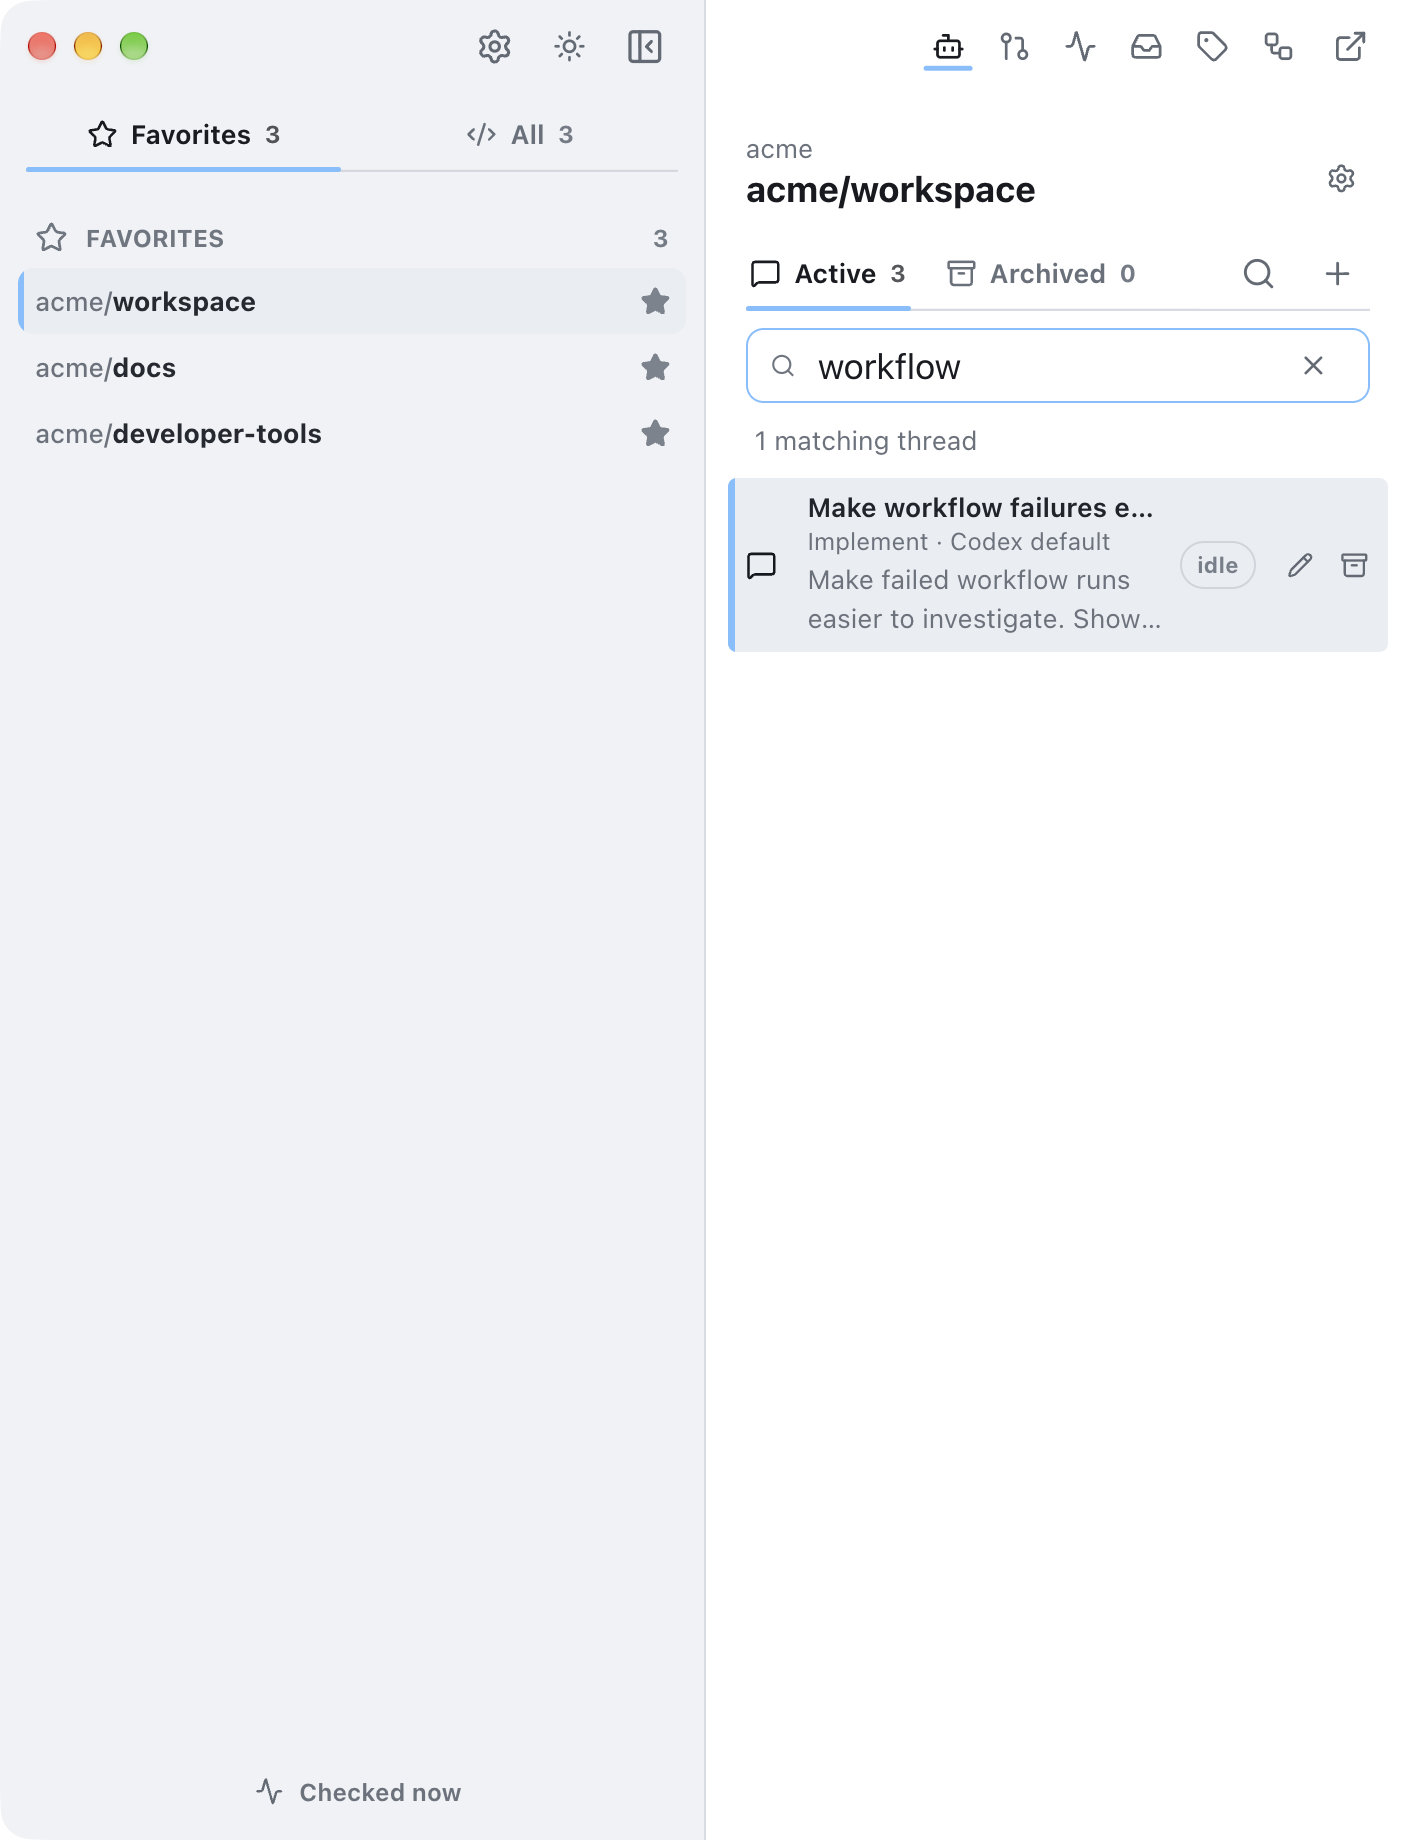
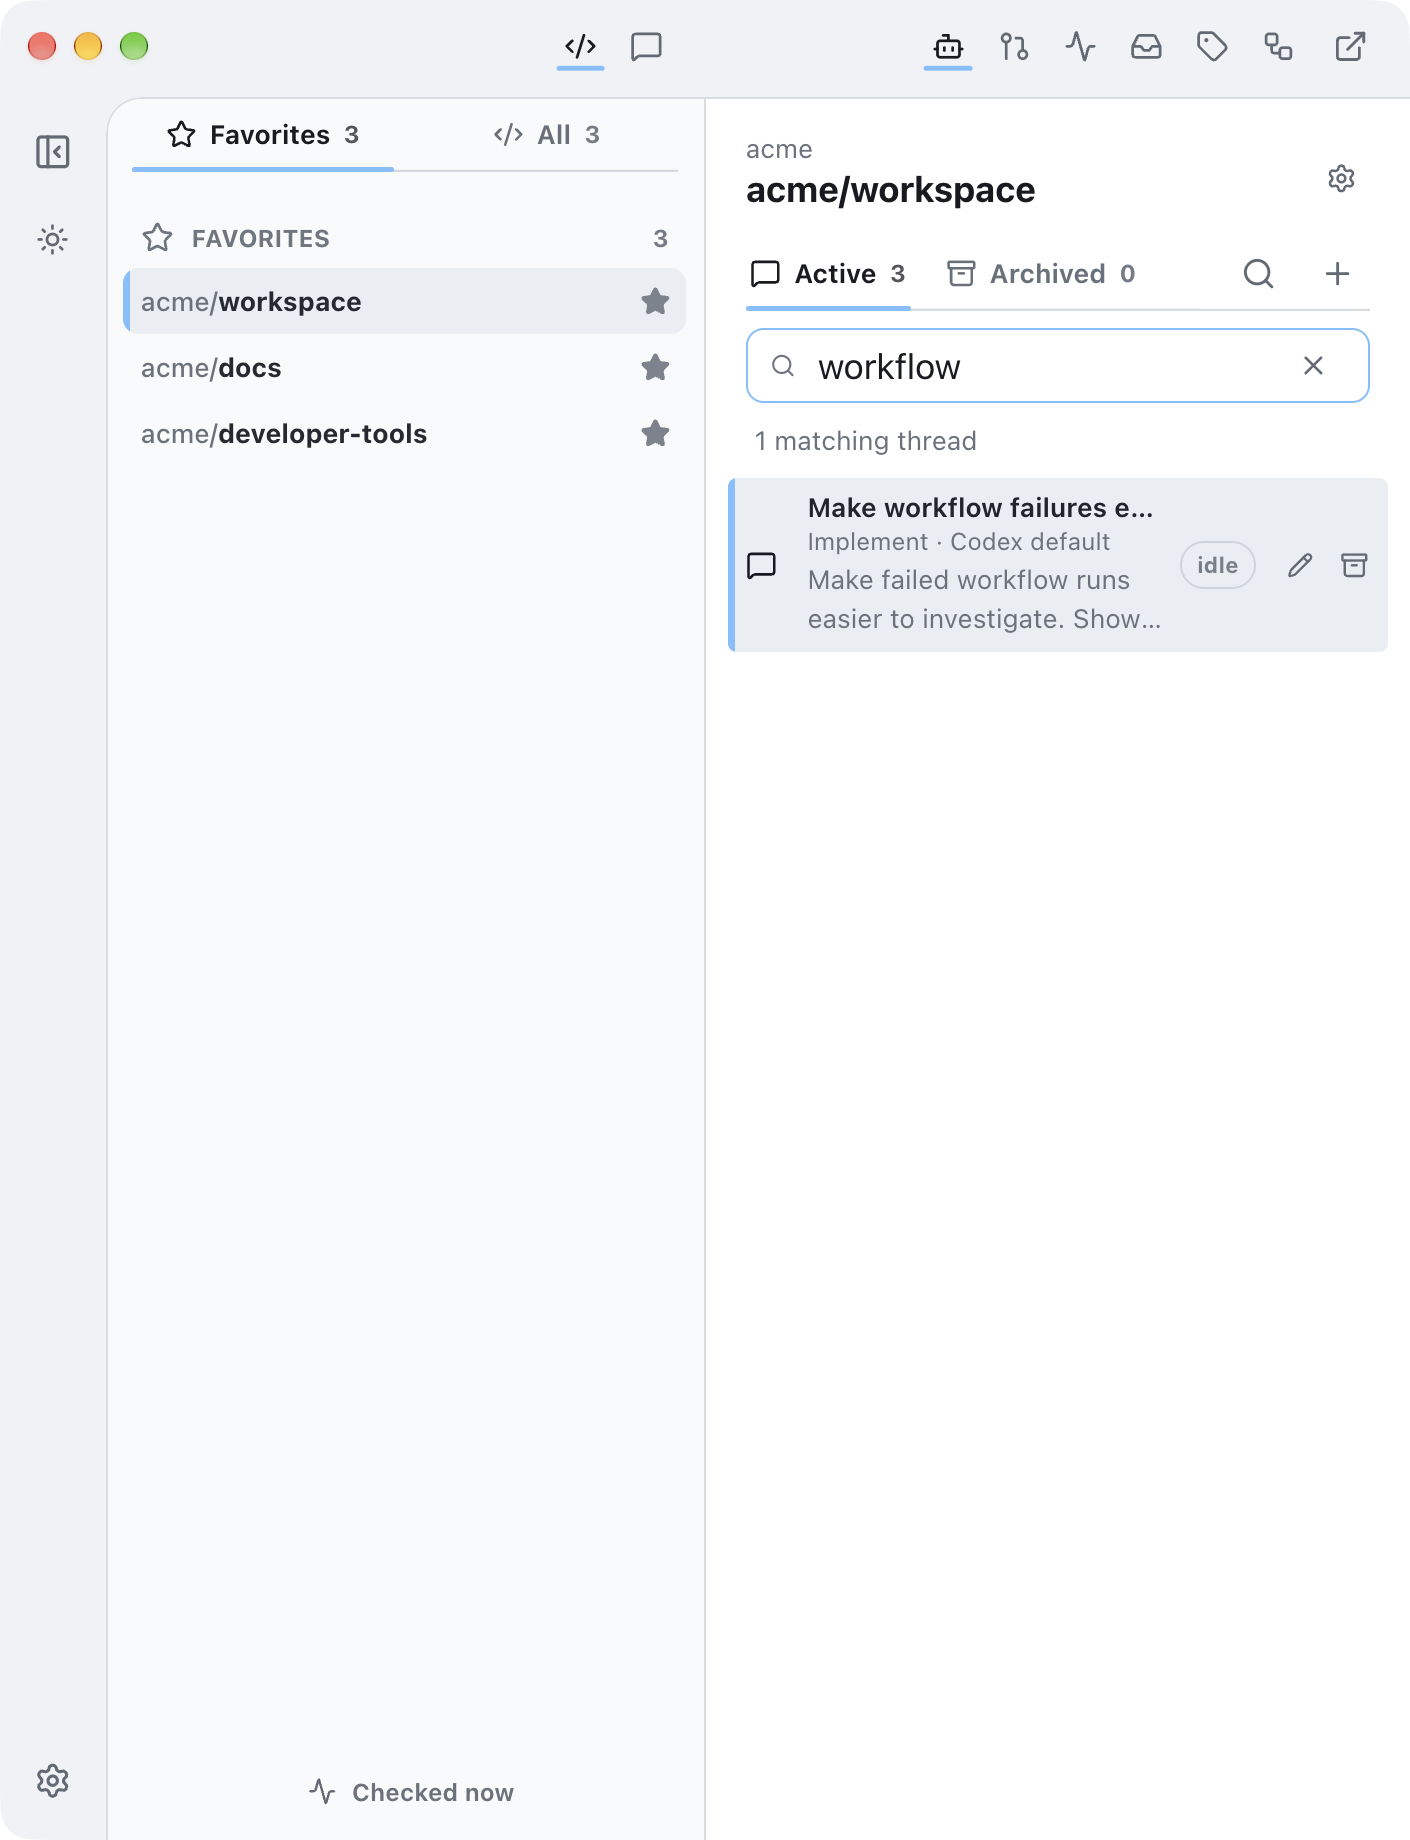
docs: refresh website screenshots for current workspace

diff --git a/CHANGELOG.md b/CHANGELOG.md
@@ -4,6 +4,8 @@ All notable changes to Forge are documented in this file.
 
 ## [Unreleased]
 
+- Refresh website screenshots to show the current workspace and navigation.
+
 - Place the new-branch starting point directly after worktree in global and project configuration.
 
 - Fetch the origin default branch before starting isolated worktrees or new branches.
